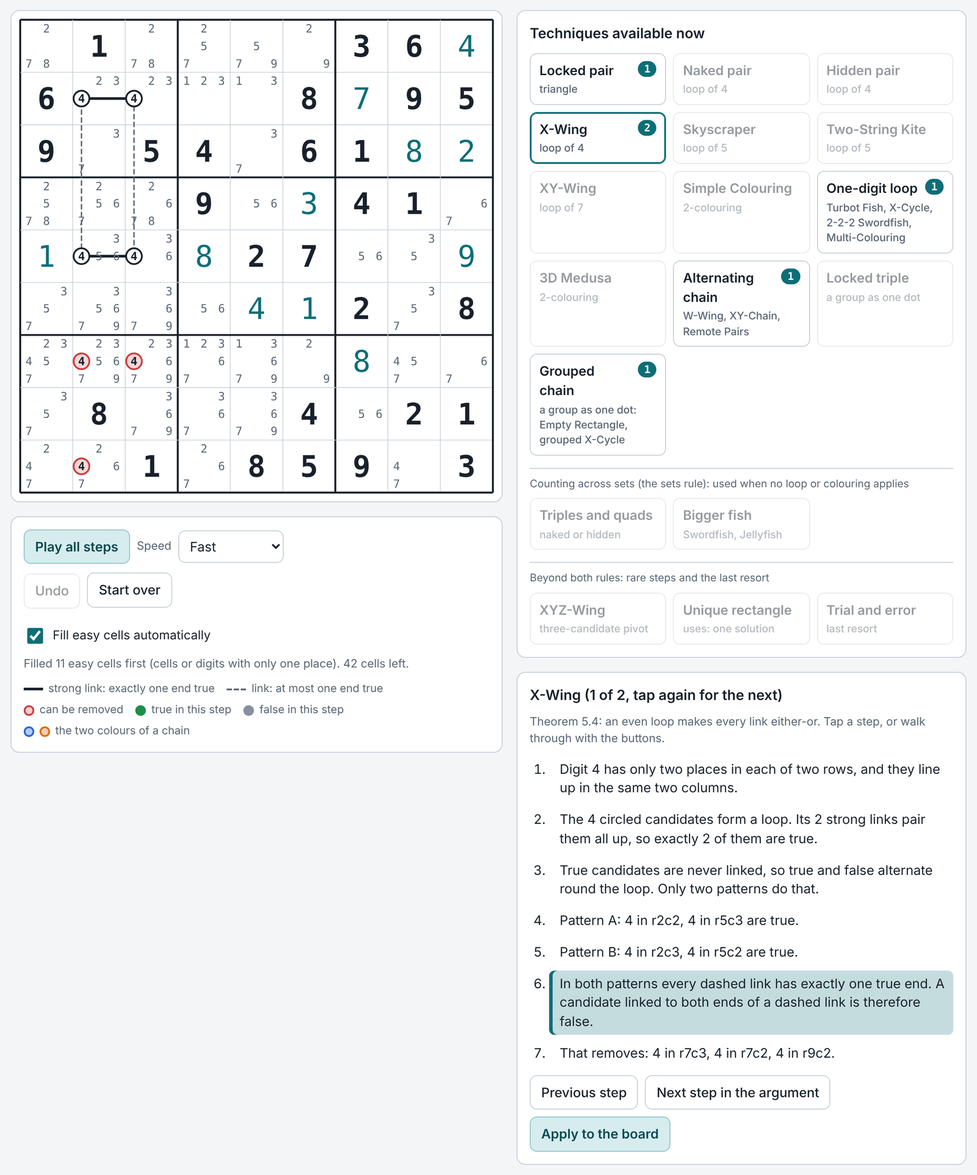
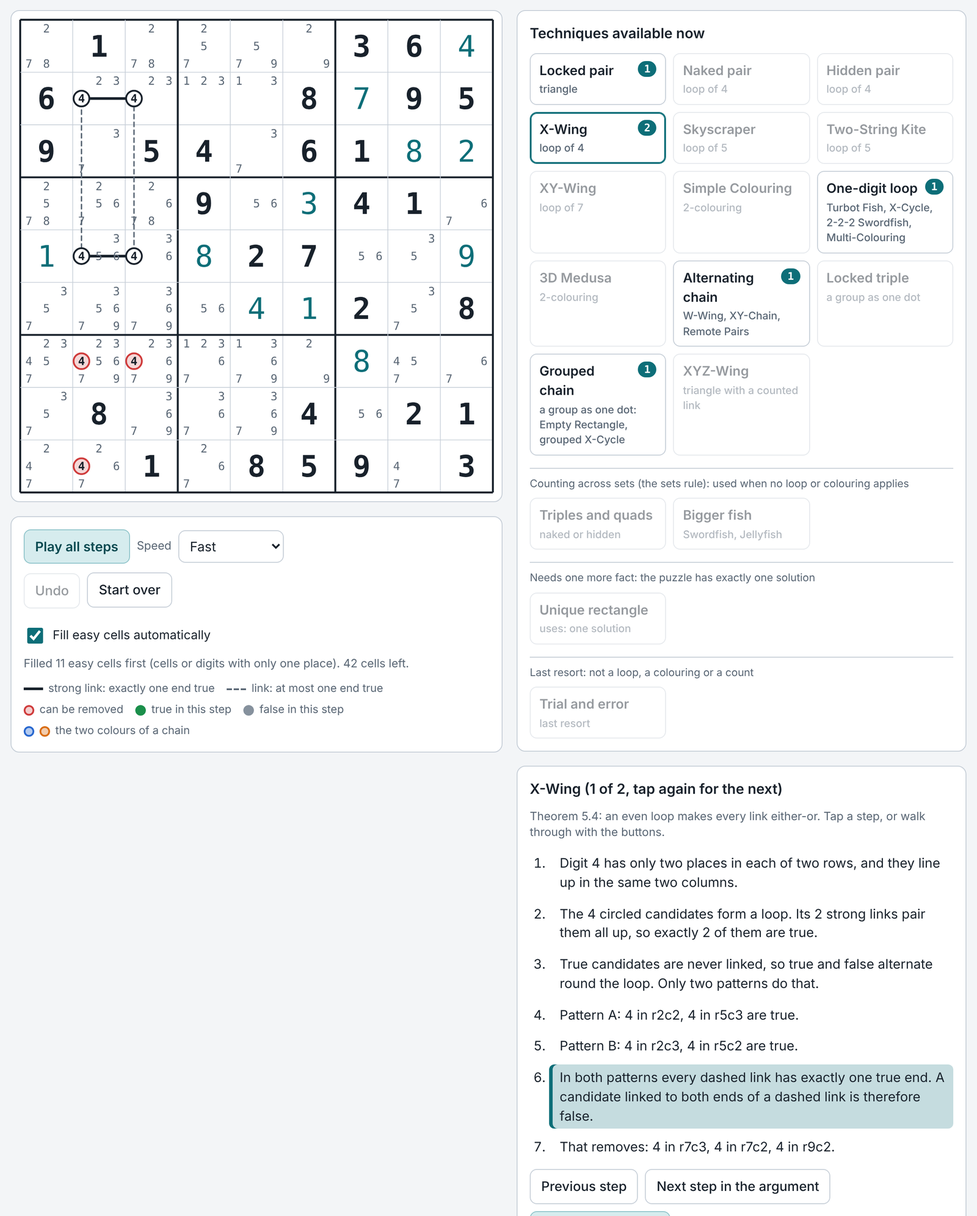
XYZ-Wing as a triangle with a counted link; unique rectangle as an even loop
- Write-up: Lemma 7.6 (the XYZ link) with its proof, and two remarks:
  triples as a colouring with nine colours, and the unique rectangle
  as an even loop with two colourings plus the one-solution fact.
  Only trial and error is left outside.
- proofs/verify_sets.py checks Lemma 7.6 on random states.
- Loop Finder: XYZ-Wing sits with the loops; unique rectangle and
  trial and error each get their own heading.

Claude-Session: https://claude.ai/code/session_0161PMRBv2Fxor83Lofabj9S

diff --git a/index.html b/index.html
@@ -677,13 +677,14 @@ label.check input { width: 18px; height: 18px; accent-color: var(--accent); }
         const z = digits(st.cand[w1] & st.cand[w2])[0], x = digits(st.cand[w1] & ~(1 << z))[0], y = digits(st.cand[w2] & ~(1 << z))[0];
         const elim = []; for (let c = 0; c < 81; c++) if (c !== p && c !== w1 && c !== w2 && has(st, c, z) && sees(c, p) && sees(c, w1) && sees(c, w2)) elim.push(cid(c, z));
         if (!elim.length) continue;
-        const res = mkResult('XYZ-Wing', 'Beyond links: the pivot has three candidates');
+        const res = mkResult('XYZ-Wing', 'Lemma 7.6 and Theorem 5.2: a triangle whose link is counted');
         for (const c of [p, w1, w2]) for (const d of digits(st.cand[c])) res.nodes.set(cid(c, d), 'loop');
         elim.forEach(e => res.nodes.set(e, 'elim')); res.elim = elim;
+        for (const c of [p, w1, w2]) res.links.push({ a: elim[0], b: cid(c, z), strong: false });
         const zs = { [cid(p, z)]: 't', [cid(w1, z)]: 't', [cid(w2, z)]: 't' };
         say(res, 'The pivot ' + cellName(p) + ' holds ' + digitList([x, y, z].sort()) + '. It sees ' + cellName(w1) + ', which holds ' + digitList([x, z].sort()) + ', and ' + cellName(w2) + ', which holds ' + digitList([y, z].sort()) + '.');
         say(res, 'If the pivot is ' + x + ', then ' + cellName(w1) + ' is ' + z + '. If it is ' + y + ', then ' + cellName(w2) + ' is ' + z + '. Otherwise the pivot itself is ' + z + '.', zs);
-        say(res, 'So one of the three green ' + z + 's is true. The pivot has three candidates, so this is one fact about three things, which no link can state.', zs);
+        say(res, 'So the three green ' + z + 's cannot all be false. That is a link counted across the three cells, and with the red ' + z + ' it closes a triangle, as in a Locked pair.', zs);
         say(res, 'A cell that sees all three cannot be ' + z + '. That removes: ' + list(elim) + '.', zs);
         out.push(res);
       }
@@ -762,12 +763,12 @@ label.check input { width: 18px; height: 18px; accent-color: var(--accent); }
       const m = st.cand[pair[0]], odd = cells.find(c => !pair.includes(c));
       if ((st.cand[odd] & m) !== m || bits(st.cand[odd]) < 3) continue;
       const ab = digits(m), elim = ab.map(d => cid(odd, d));
-      const res = mkResult('Unique rectangle', 'Beyond links: uses the fact that the puzzle has one solution');
+      const res = mkResult('Unique rectangle', 'An even loop with two colourings, plus the fact that the puzzle has one solution');
       for (const c of pair) for (const d of ab) res.nodes.set(cid(c, d), 'loop');
       elim.forEach(e => res.nodes.set(e, 'elim')); res.elim = elim;
       say(res, 'The cells ' + cellList(pair) + ' hold only ' + digitList(ab) + '. With ' + cellName(odd) + ' they form a rectangle across two rows, two columns and two boxes.');
-      say(res, 'If ' + cellName(odd) + ' were ' + ab[0] + ' or ' + ab[1] + ', the four corners would hold only ' + digitList(ab) + ', and swapping the two digits would give a second solution.');
-      say(res, 'A proper sudoku has exactly one solution, so ' + cellName(odd) + ' is neither. That removes: ' + list(elim) + '. This is not a link argument: it reasons about the puzzle as a whole.');
+      say(res, 'If ' + cellName(odd) + ' were ' + ab[0] + ' or ' + ab[1] + ', the four corners would form an even loop holding only ' + digitList(ab) + '. An even loop can be coloured two ways, and nothing outside it could tell them apart, so there would be two solutions.');
+      say(res, 'A proper sudoku has exactly one solution, so ' + cellName(odd) + ' is neither. That removes: ' + list(elim) + '. The two colourings are graph theory; the one-solution fact is an extra assumption about the puzzle.');
       out.push(res);
     }
     return out;
@@ -828,12 +829,12 @@ label.check input { width: 18px; height: 18px; accent-color: var(--accent); }
     { key: 'chain', name: 'Alternating chain', loop: 'W-Wing, XY-Chain, Remote Pairs', find: st => findChains(st, false, 6, 1), blurb: 'Any odd loop with alternating strong links.' },
     { key: 'group', name: 'Locked triple', loop: 'a group as one dot', find: findLockedGroup, blurb: 'A digit confined to three cells that share a second line or box.' },
     { key: 'gchain', name: 'Grouped chain', loop: 'a group as one dot: Empty Rectangle, grouped X-Cycle', find: findGroupedChains, blurb: 'An odd loop of one digit in which a dot may be a group of cells.'},
+    { key: 'xyz', name: 'XYZ-Wing', loop: 'triangle with a counted link', find: findXYZWing, blurb: 'A pivot with three candidates and two wings.' },
     /* Beyond links. These are tried only after every loop and colouring above has failed. */
     { key: 'subset', name: 'Triples and quads', loop: 'naked or hidden', find: findSubsets, blurb: 'Three or four cells that must share three or four digits.', beyond: true, section: 'count' },
     { key: 'fish', name: 'Bigger fish', loop: 'Swordfish, Jellyfish', find: findFish, blurb: 'One digit: three or four rows that fit only three or four columns.', beyond: true, section: 'count' },
-    { key: 'xyz', name: 'XYZ-Wing', loop: 'three-candidate pivot', find: findXYZWing, blurb: 'A pivot with three candidates and two wings.', beyond: true, section: 'other' },
-    { key: 'ur', name: 'Unique rectangle', loop: 'uses: one solution', find: findUniqueRectangle, blurb: 'Four corners that would allow two solutions.', beyond: true, section: 'other' },
-    { key: 'guess', name: 'Trial and error', loop: 'last resort', find: findGuess, blurb: 'Suppose a candidate is true and follow the easy cells to a contradiction.', beyond: true, section: 'other', lastResort: true }
+    { key: 'ur', name: 'Unique rectangle', loop: 'uses: one solution', find: findUniqueRectangle, blurb: 'Four corners that would allow two solutions.', beyond: true, section: 'unique' },
+    { key: 'guess', name: 'Trial and error', loop: 'last resort', find: findGuess, blurb: 'Suppose a candidate is true and follow the easy cells to a contradiction.', beyond: true, section: 'last', lastResort: true }
   ];
 
   /* ---------- random puzzles ---------- */
@@ -912,11 +913,11 @@ label.check input { width: 18px; height: 18px; accent-color: var(--accent); }
     { name: 'Grouped chain', puzzle: '..32.....7..9.....82...7...9...5..4....4.6..9..2.8.37.6.....1...387...2...7..5...', tech: null },
     /* Rare techniques, shown as soon as the puzzle loads. */
     { name: 'Swordfish', puzzle: '......6......9...2.1..248.3624.19........8.1.18...5....5.7............76..3...9..', tech: 'fish' },
-    { name: 'Beyond links: XYZ-Wing', puzzle: '7........14..5.....351.7........32.88........3.....51..2..957..4.18....2....2.4.9', tech: 'xyz' },
-    { name: 'Beyond links: unique rectangle', puzzle: '4....8............7..53.........15.6.....2..9...95..3....1...231.5..9.4..42.6..9.', tech: 'ur' },
+    { name: 'XYZ-Wing', puzzle: '7........14..5.....351.7........32.88........3.....51..2..957..4.18....2....2.4.9', tech: 'xyz' },
+    { name: 'Unique rectangle', puzzle: '4....8............7..53.........15.6.....2..9...95..3....1...231.5..9.4..42.6..9.', tech: 'ur' },
     /* Puzzles that links alone cannot finish. Each starts with loops and then needs the named step. */
     { name: 'Naked triple', puzzle: '............4...97.973.68...548...696....238..8.....1.42..19..............6.5....', tech: null },
-    { name: 'Beyond links: trial and error', puzzle: '...4......3.86......23..1.7.78..13..35.....2.1.9....8.......63....5....8....839..', tech: null }
+    { name: 'Trial and error', puzzle: '...4......3.86......23..1.7.78..13..35.....2.1.9....8.......63....5....8....839..', tech: null }
   ];
   var $ = function (id) { return document.getElementById(id); };
   var st = null, original = '', solution = null, history = [], avail = {}, pick = {};
@@ -1033,7 +1034,7 @@ label.check input { width: 18px; height: 18px; accent-color: var(--accent); }
   function scan() { avail = {}; var any = false; E.TECHNIQUES.forEach(function (t) { avail[t.key] = E.solved(st) || (t.lastResort && any) ? [] : t.find(st); if (avail[t.key].length) any = true; }); }
   function drawTechs() {
     var h = '';
-    var section = '', heads = { count: 'Counting across sets (the sets rule): used when no loop or colouring applies', other: 'Beyond both rules: rare steps and the last resort' };
+    var section = '', heads = { count: 'Counting across sets (the sets rule): used when no loop or colouring applies', unique: 'Needs one more fact: the puzzle has exactly one solution', last: 'Last resort: not a loop, a colouring or a count' };
     E.TECHNIQUES.forEach(function (t) {
       if (t.easy && autoFill) return;
       if (t.section && t.section !== section) { section = t.section; h += '<p class="beyond">' + heads[section] + '</p>'; }

diff --git a/src/engine.js b/src/engine.js
@@ -489,13 +489,14 @@
         const z = digits(st.cand[w1] & st.cand[w2])[0], x = digits(st.cand[w1] & ~(1 << z))[0], y = digits(st.cand[w2] & ~(1 << z))[0];
         const elim = []; for (let c = 0; c < 81; c++) if (c !== p && c !== w1 && c !== w2 && has(st, c, z) && sees(c, p) && sees(c, w1) && sees(c, w2)) elim.push(cid(c, z));
         if (!elim.length) continue;
-        const res = mkResult('XYZ-Wing', 'Beyond links: the pivot has three candidates');
+        const res = mkResult('XYZ-Wing', 'Lemma 7.6 and Theorem 5.2: a triangle whose link is counted');
         for (const c of [p, w1, w2]) for (const d of digits(st.cand[c])) res.nodes.set(cid(c, d), 'loop');
         elim.forEach(e => res.nodes.set(e, 'elim')); res.elim = elim;
+        for (const c of [p, w1, w2]) res.links.push({ a: elim[0], b: cid(c, z), strong: false });
         const zs = { [cid(p, z)]: 't', [cid(w1, z)]: 't', [cid(w2, z)]: 't' };
         say(res, 'The pivot ' + cellName(p) + ' holds ' + digitList([x, y, z].sort()) + '. It sees ' + cellName(w1) + ', which holds ' + digitList([x, z].sort()) + ', and ' + cellName(w2) + ', which holds ' + digitList([y, z].sort()) + '.');
         say(res, 'If the pivot is ' + x + ', then ' + cellName(w1) + ' is ' + z + '. If it is ' + y + ', then ' + cellName(w2) + ' is ' + z + '. Otherwise the pivot itself is ' + z + '.', zs);
-        say(res, 'So one of the three green ' + z + 's is true. The pivot has three candidates, so this is one fact about three things, which no link can state.', zs);
+        say(res, 'So the three green ' + z + 's cannot all be false. That is a link counted across the three cells, and with the red ' + z + ' it closes a triangle, as in a Locked pair.', zs);
         say(res, 'A cell that sees all three cannot be ' + z + '. That removes: ' + list(elim) + '.', zs);
         out.push(res);
       }
@@ -574,12 +575,12 @@
       const m = st.cand[pair[0]], odd = cells.find(c => !pair.includes(c));
       if ((st.cand[odd] & m) !== m || bits(st.cand[odd]) < 3) continue;
       const ab = digits(m), elim = ab.map(d => cid(odd, d));
-      const res = mkResult('Unique rectangle', 'Beyond links: uses the fact that the puzzle has one solution');
+      const res = mkResult('Unique rectangle', 'An even loop with two colourings, plus the fact that the puzzle has one solution');
       for (const c of pair) for (const d of ab) res.nodes.set(cid(c, d), 'loop');
       elim.forEach(e => res.nodes.set(e, 'elim')); res.elim = elim;
       say(res, 'The cells ' + cellList(pair) + ' hold only ' + digitList(ab) + '. With ' + cellName(odd) + ' they form a rectangle across two rows, two columns and two boxes.');
-      say(res, 'If ' + cellName(odd) + ' were ' + ab[0] + ' or ' + ab[1] + ', the four corners would hold only ' + digitList(ab) + ', and swapping the two digits would give a second solution.');
-      say(res, 'A proper sudoku has exactly one solution, so ' + cellName(odd) + ' is neither. That removes: ' + list(elim) + '. This is not a link argument: it reasons about the puzzle as a whole.');
+      say(res, 'If ' + cellName(odd) + ' were ' + ab[0] + ' or ' + ab[1] + ', the four corners would form an even loop holding only ' + digitList(ab) + '. An even loop can be coloured two ways, and nothing outside it could tell them apart, so there would be two solutions.');
+      say(res, 'A proper sudoku has exactly one solution, so ' + cellName(odd) + ' is neither. That removes: ' + list(elim) + '. The two colourings are graph theory; the one-solution fact is an extra assumption about the puzzle.');
       out.push(res);
     }
     return out;
@@ -640,12 +641,12 @@
     { key: 'chain', name: 'Alternating chain', loop: 'W-Wing, XY-Chain, Remote Pairs', find: st => findChains(st, false, 6, 1), blurb: 'Any odd loop with alternating strong links.' },
     { key: 'group', name: 'Locked triple', loop: 'a group as one dot', find: findLockedGroup, blurb: 'A digit confined to three cells that share a second line or box.' },
     { key: 'gchain', name: 'Grouped chain', loop: 'a group as one dot: Empty Rectangle, grouped X-Cycle', find: findGroupedChains, blurb: 'An odd loop of one digit in which a dot may be a group of cells.'},
+    { key: 'xyz', name: 'XYZ-Wing', loop: 'triangle with a counted link', find: findXYZWing, blurb: 'A pivot with three candidates and two wings.' },
     /* Beyond links. These are tried only after every loop and colouring above has failed. */
     { key: 'subset', name: 'Triples and quads', loop: 'naked or hidden', find: findSubsets, blurb: 'Three or four cells that must share three or four digits.', beyond: true, section: 'count' },
     { key: 'fish', name: 'Bigger fish', loop: 'Swordfish, Jellyfish', find: findFish, blurb: 'One digit: three or four rows that fit only three or four columns.', beyond: true, section: 'count' },
-    { key: 'xyz', name: 'XYZ-Wing', loop: 'three-candidate pivot', find: findXYZWing, blurb: 'A pivot with three candidates and two wings.', beyond: true, section: 'other' },
-    { key: 'ur', name: 'Unique rectangle', loop: 'uses: one solution', find: findUniqueRectangle, blurb: 'Four corners that would allow two solutions.', beyond: true, section: 'other' },
-    { key: 'guess', name: 'Trial and error', loop: 'last resort', find: findGuess, blurb: 'Suppose a candidate is true and follow the easy cells to a contradiction.', beyond: true, section: 'other', lastResort: true }
+    { key: 'ur', name: 'Unique rectangle', loop: 'uses: one solution', find: findUniqueRectangle, blurb: 'Four corners that would allow two solutions.', beyond: true, section: 'unique' },
+    { key: 'guess', name: 'Trial and error', loop: 'last resort', find: findGuess, blurb: 'Suppose a candidate is true and follow the easy cells to a contradiction.', beyond: true, section: 'last', lastResort: true }
   ];
 
   /* ---------- random puzzles ---------- */

diff --git a/writeup/index.html b/writeup/index.html
@@ -214,8 +214,15 @@ code { font-size: 0.92em; }
 </tbody>
 </table></div>
 <p>With k = 2 these are the naked pair, hidden pair and X-Wing of Theorem 5.4. So the 4-cycle with two strong links is the smallest case of the sets rule, and the sets rule is where the even loop leads when a set has more than two candidates left. The naked triple of Proposition 7.3 is the case k = 3.</p>
-<p>Both extensions were checked by brute force on about 1,200 random states that contain a known solution: 1.2 million linked pairs of group dots against Lemma 7.4, and about 18,800 instances of the sets rule with k = 2, 3 and 4. There were no failures. The script is <code>proofs/verify_sets.py</code>.</p>
-<p><strong>What is still outside.</strong> XYZ-Wing needs a dot larger than a group: a set of cells with one candidate too many. It probably fits the same loop rule, but that is not proved here. A <em>unique rectangle</em> is not about candidates at all: it uses the fact that the puzzle has one solution. And <em>trial and error</em> reaches its contradiction through a branching web of consequences, not a loop or a count.</p>
+<p><strong>3. A link that has to be counted.</strong> Theorem 5.2 never needed a strong link to mean "exactly one". Its proof only used one direction: if this end is false, the other is true. So a link that says "at least one of these is true" serves just as well, wherever it comes from.</p>
+<p><strong>Lemma 7.6 (the XYZ link).</strong> Let a cell p hold x, y and z. Let it see a cell holding x and z, and a cell holding y and z. Then at least one of the three z's in those cells is true.</p>
+<p><em>Why.</em> The cell p is x, y or z. If it is x, the cell holding x and z sees it and must be z. If it is y, the cell holding y and z must be z. Otherwise p itself is z. ∎</p>
+<p>So take the z in p and the z in the first wing as one dot, and the z in the second wing as another. They cannot both be false. A candidate z that sees all three cells is linked to both dots. Suppose it is true: both dots are false, which the lemma forbids. That is the <strong>XYZ-Wing</strong>, and its shape is a triangle, like the Locked pair.</p>
+<p><strong>4. Two remarks.</strong></p>
+<p><em>Triples as a colouring.</em> A solved grid colours the 81 cells with nine colours so that cells which see each other differ [2]. A naked triple is three cells that all see each other and share a list of three colours, so they use up all three. The sets rule says the same thing by counting.</p>
+<p><em>The unique rectangle.</em> Four cells in two rows, two columns and two boxes, each holding only a and b, form an even loop, and an even loop has exactly two colourings (Corollary 2.2). Nothing outside the four cells can tell the two apart, so both would be solutions. A proper puzzle has one solution, so that pattern can never appear, and any candidate that would complete it is false. The loop and its two colourings are graph theory. The last step is not: it uses a fact about the puzzle that is not one of the 324 constraint sets.</p>
+<p>All three were checked by brute force on about 1,100 random states that contain a known solution: 1.1 million linked pairs of group dots against Lemma 7.4, about 17,500 instances of the sets rule with k = 2, 3 and 4, and about 1,600 XYZ configurations against Lemma 7.6. There were no failures. The script is <code>proofs/verify_sets.py</code>.</p>
+<p><strong>What is still outside.</strong> <em>Trial and error</em> reaches its contradiction through a branching web of consequences, not a loop, a colouring or a count. Larger families such as almost-locked sets and finned fish are not examined here.</p>
 <h2 id="8-has-this-been-done-before">8. Has this been done before?</h2>
 <p>Yes, in pieces. The strategies are well known, and so is the loop view. What I have not found written down is one counting rule that proves all of them.</p>
 <ul><li><p><strong>Sudoku as graph colouring.</strong> Herzberg and Murty [2] colour the 81 cells with nine digits. That graph describes what a solution is. It is not the link graph used here.</p></li><li><p><strong>Bivalue and bilocation graphs.</strong> Eppstein [3] builds graphs from the same strong links and reads solving rules off their cycles. His rules use edge labels, not two colours or parity. This is the closest academic precedent.</p></li><li><p><strong>Colouring.</strong> HoDoKu [7] describes Simple Colours, with the names Color Trap and Color Wrap, and Multi Colours, whose two rules are Bridge and Double bridge here. SudokuWiki [8] describes 3D Medusa.</p></li><li><p><strong>Loops.</strong> SudokuWiki [8] notes that a loop with one discontinuity has an odd number of nodes, and states the rules proved here as Theorems 5.2 and 5.3. Sudopedia [9] has the rule that is Theorem 5.4. Barker [10] observes that an odd loop of strong links cannot occur, and describes the guardians of the Broken Wing.</p></li><li><p><strong>Background maths.</strong> Theorem 2.1 is König&#39;s [1]. The odd-cycle bound is Padberg&#39;s [4]. The 2-SAT method is due to Aspvall, Plass and Tarjan [6]. Berthier [11] treats chains in formal logic.</p></li></ul>

diff --git a/src/index.src.html b/src/index.src.html
@@ -210,11 +210,11 @@ label.check input { width: 18px; height: 18px; accent-color: var(--accent); }
     { name: 'Grouped chain', puzzle: '..32.....7..9.....82...7...9...5..4....4.6..9..2.8.37.6.....1...387...2...7..5...', tech: null },
     /* Rare techniques, shown as soon as the puzzle loads. */
     { name: 'Swordfish', puzzle: '......6......9...2.1..248.3624.19........8.1.18...5....5.7............76..3...9..', tech: 'fish' },
-    { name: 'Beyond links: XYZ-Wing', puzzle: '7........14..5.....351.7........32.88........3.....51..2..957..4.18....2....2.4.9', tech: 'xyz' },
-    { name: 'Beyond links: unique rectangle', puzzle: '4....8............7..53.........15.6.....2..9...95..3....1...231.5..9.4..42.6..9.', tech: 'ur' },
+    { name: 'XYZ-Wing', puzzle: '7........14..5.....351.7........32.88........3.....51..2..957..4.18....2....2.4.9', tech: 'xyz' },
+    { name: 'Unique rectangle', puzzle: '4....8............7..53.........15.6.....2..9...95..3....1...231.5..9.4..42.6..9.', tech: 'ur' },
     /* Puzzles that links alone cannot finish. Each starts with loops and then needs the named step. */
     { name: 'Naked triple', puzzle: '............4...97.973.68...548...696....238..8.....1.42..19..............6.5....', tech: null },
-    { name: 'Beyond links: trial and error', puzzle: '...4......3.86......23..1.7.78..13..35.....2.1.9....8.......63....5....8....839..', tech: null }
+    { name: 'Trial and error', puzzle: '...4......3.86......23..1.7.78..13..35.....2.1.9....8.......63....5....8....839..', tech: null }
   ];
   var $ = function (id) { return document.getElementById(id); };
   var st = null, original = '', solution = null, history = [], avail = {}, pick = {};
@@ -331,7 +331,7 @@ label.check input { width: 18px; height: 18px; accent-color: var(--accent); }
   function scan() { avail = {}; var any = false; E.TECHNIQUES.forEach(function (t) { avail[t.key] = E.solved(st) || (t.lastResort && any) ? [] : t.find(st); if (avail[t.key].length) any = true; }); }
   function drawTechs() {
     var h = '';
-    var section = '', heads = { count: 'Counting across sets (the sets rule): used when no loop or colouring applies', other: 'Beyond both rules: rare steps and the last resort' };
+    var section = '', heads = { count: 'Counting across sets (the sets rule): used when no loop or colouring applies', unique: 'Needs one more fact: the puzzle has exactly one solution', last: 'Last resort: not a loop, a colouring or a count' };
     E.TECHNIQUES.forEach(function (t) {
       if (t.easy && autoFill) return;
       if (t.section && t.section !== section) { section = t.section; h += '<p class="beyond">' + heads[section] + '</p>'; }

diff --git a/test/smoke.js b/test/smoke.js
@@ -177,7 +177,7 @@ const loadSample = i => { sel.value = String(i); sel.dispatchEvent(new dom.windo
   log.push('random: 6 different proper puzzles, each finished by play; Start over keeps the puzzle');
   // 6i. the three "Beyond links" examples sit at the bottom of the list, and play finishes each using the named step
   document.documentElement.setAttribute('data-instant', '1');
-  const lastThree = ['Locked triple', 'Naked triple', 'Beyond links: trial and error'].map(nm => [...sel.options].find(o => o.textContent === nm));
+  const lastThree = ['Locked triple', 'Naked triple', 'Trial and error'].map(nm => [...sel.options].find(o => o.textContent === nm));
   if (lastThree.some(o => !o)) throw new Error('an expected example is missing from the list');
   const wanted = [['locked triple', 'Locked triple'], ['naked triple', 'Naked triple'], ['trial and error', 'Trial and error']];
   for (let n = 0; n < 3; n++) {
@@ -203,7 +203,7 @@ const loadSample = i => { sel.value = String(i); sel.dispatchEvent(new dom.windo
   for (let g = 0; g < 80 && !document.querySelector('#techs button[data-key=group]:not([disabled])'); g++) { click(document.querySelector('#techs button[data-key]:not([disabled])')); click($('apply')); }
   click(document.querySelector('#techs button[data-key=group]'));
   if ($('grid').querySelectorAll('rect.group').length !== 1) throw new Error('the locked triple is not drawn as one outlined group');
-  if (document.querySelectorAll('#techs .beyond').length !== 2) throw new Error('expected two dividers: counting, and beyond both');
+  if (document.querySelectorAll('#techs .beyond').length !== 3) throw new Error('expected three dividers: counting, one-solution, last resort');
   // 6j. the easy-cell switch and "Random easy sudoku"
   const auto = $('autofill'), easyBtn = () => document.querySelector('#techs button[data-key=single]');
   loadSample(4);

diff --git a/test/test.js b/test/test.js
@@ -82,7 +82,7 @@ console.log(JSON.stringify(firstAfterSingles, null, 1));
       let res = null, tech = null;
       for (const t of E.TECHNIQUES) { const rs = t.find(st); for (const r of rs) check(st, sol, r, t.key + ' on ' + puzzle); if (rs.length && !res) { res = rs[0]; tech = t; } if (res && t === tech) break; }
       if (!res) throw new Error('nothing applies on ' + puzzle);
-      if (tech.beyond || tech.key === 'group' || tech.key === 'gchain') { linkOnlyStuck = true; seen.add(res.tech); }
+      if (tech.beyond || tech.key === 'group' || tech.key === 'gchain' || tech.key === 'xyz') { linkOnlyStuck = true; seen.add(res.tech); }
       if (tech.lastResort && E.TECHNIQUES.some(t => !t.lastResort && t.find(st).length)) throw new Error('a guess was used while a pattern was available');
       E.apply(st, res); E.fillSingles(st);
     }

diff --git a/proofs/verify_sets.py b/proofs/verify_sets.py
@@ -4,7 +4,9 @@ A. Lemma 7.4: group dots obey the two link rules (so the Cycle Lemma and Theorem
 B. Theorem 7.5, the sets rule: if k pairwise disjoint constraint sets are covered by k other
    constraint sets, every candidate of the covering sets outside the covered ones is false.
 
-Both are checked on random states that contain a known solution. Run: python3 verify_sets.py
+C. Lemma 7.6: in an XYZ-Wing one of the three z's is true.
+
+All are checked on random states that contain a known solution. Run: python3 verify_sets.py
 """
 import itertools, random, time
 
@@ -125,13 +127,36 @@ def check_families(truth, P, live):
         family(rows, cols); family(cols, rows)
     return n
 
-t0, groups, rule, fam, states = time.time(), 0, 0, 0, 0
+def check_xyz(truth, P, live):
+    """Lemma 7.6: a pivot cell holding x, y, z that sees a cell holding x, z and a cell holding y, z.
+    One of the three z's is true, so a z that sees all three cells is false."""
+    n = 0
+    cell = {}
+    for (r, c, d) in P: cell.setdefault((r, c), set()).add(d)
+    sees = lambda a, b: a != b and (a[0] == b[0] or a[1] == b[1] or (a[0] // 3 == b[0] // 3 and a[1] // 3 == b[1] // 3))
+    for p, ds in cell.items():
+        if len(ds) != 3: continue
+        wings = [w for w, ws in cell.items() if len(ws) == 2 and ws < ds and sees(p, w)]
+        for w1, w2 in itertools.combinations(wings, 2):
+            if cell[w1] == cell[w2]: continue
+            z = next(iter(cell[w1] & cell[w2]))
+            three = [(p[0], p[1], z), (w1[0], w1[1], z), (w2[0], w2[1], z)]
+            assert any(t in truth for t in three), 'no z is true among pivot and wings'
+            for v, vs in cell.items():
+                if v not in (p, w1, w2) and z in vs and sees(v, p) and sees(v, w1) and sees(v, w2):
+                    assert (v[0], v[1], z) not in truth, 'XYZ-Wing removed a true candidate'
+            n += 1
+    return n
+
+t0, groups, rule, fam, xyz, states = time.time(), 0, 0, 0, 0, 0
 while time.time() - t0 < 40:
     truth, P, live = random_state()
     groups += check_groups(truth, P, live)
     rule += check_sets_rule(truth, P, live)
     fam += check_families(truth, P, live)
+    xyz += check_xyz(truth, P, live)
     states += 1
 print('states:', states)
 print('group dots (Lemma 7.4): %d linked pairs of dots checked against the two link rules, 0 failures' % groups)
 print('sets rule (Theorem 7.5): %d random base/cover instances and %d subset and fish instances, k = 2, 3, 4, each removing at least one candidate, 0 failures' % (rule, fam))
+print('XYZ-Wing (Lemma 7.6): %d pivot-and-wings configurations checked, 0 failures' % xyz)

diff --git a/writeup/README.md b/writeup/README.md
@@ -491,9 +491,23 @@ What the sets rule covers:
 
 With k = 2 these are the naked pair, hidden pair and X-Wing of Theorem 5.4. So the 4-cycle with two strong links is the smallest case of the sets rule, and the sets rule is where the even loop leads when a set has more than two candidates left. The naked triple of Proposition 7.3 is the case k = 3.
 
-Both extensions were checked by brute force on about 1,200 random states that contain a known solution: 1.2 million linked pairs of group dots against Lemma 7.4, and about 18,800 instances of the sets rule with k = 2, 3 and 4. There were no failures. The script is `proofs/verify_sets.py`.
+**3. A link that has to be counted.** Theorem 5.2 never needed a strong link to mean "exactly one". Its proof only used one direction: if this end is false, the other is true. So a link that says "at least one of these is true" serves just as well, wherever it comes from.
 
-**What is still outside.** XYZ-Wing needs a dot larger than a group: a set of cells with one candidate too many. It probably fits the same loop rule, but that is not proved here. A *unique rectangle* is not about candidates at all: it uses the fact that the puzzle has one solution. And *trial and error* reaches its contradiction through a branching web of consequences, not a loop or a count.
+**Lemma 7.6 (the XYZ link).** Let a cell p hold x, y and z. Let it see a cell holding x and z, and a cell holding y and z. Then at least one of the three z's in those cells is true.
+
+*Why.* The cell p is x, y or z. If it is x, the cell holding x and z sees it and must be z. If it is y, the cell holding y and z must be z. Otherwise p itself is z. ∎
+
+So take the z in p and the z in the first wing as one dot, and the z in the second wing as another. They cannot both be false. A candidate z that sees all three cells is linked to both dots. Suppose it is true: both dots are false, which the lemma forbids. That is the **XYZ-Wing**, and its shape is a triangle, like the Locked pair.
+
+**4. Two remarks.**
+
+*Triples as a colouring.* A solved grid colours the 81 cells with nine colours so that cells which see each other differ \[2\]. A naked triple is three cells that all see each other and share a list of three colours, so they use up all three. The sets rule says the same thing by counting.
+
+*The unique rectangle.* Four cells in two rows, two columns and two boxes, each holding only a and b, form an even loop, and an even loop has exactly two colourings (Corollary 2.2). Nothing outside the four cells can tell the two apart, so both would be solutions. A proper puzzle has one solution, so that pattern can never appear, and any candidate that would complete it is false. The loop and its two colourings are graph theory. The last step is not: it uses a fact about the puzzle that is not one of the 324 constraint sets.
+
+All three were checked by brute force on about 1,100 random states that contain a known solution: 1.1 million linked pairs of group dots against Lemma 7.4, about 17,500 instances of the sets rule with k = 2, 3 and 4, and about 1,600 XYZ configurations against Lemma 7.6. There were no failures. The script is `proofs/verify_sets.py`.
+
+**What is still outside.** *Trial and error* reaches its contradiction through a branching web of consequences, not a loop, a colouring or a count. Larger families such as almost-locked sets and finned fish are not examined here.
 
 ## 8. Has this been done before?
 

diff --git a/README.md b/README.md
@@ -82,11 +82,11 @@ A search for everything links can prove, on a smaller sample, solved nothing the
 - **Triples and quads**, naked or hidden: k cells of a unit against the k digits they hold.
 - **Bigger fish** (Swordfish, Jellyfish): one digit in k rows against k columns.
 
-**Beyond both rules.** Three steps remain outside, tried last:
+**A counted link.** In an **XYZ-Wing** one of three candidates must be true, which a short count shows. With the candidate it removes, that closes a triangle, the same shape as the Locked pair. It sits with the loops.
 
-- **XYZ-Wing**: a pivot with three candidates and two wings.
-- **Unique rectangle**: four corners that would allow two solutions. It uses the fact that a proper sudoku has one.
-- **Trial and error**, the last resort: suppose a candidate is true, fill the easy cells that follow, and reach a contradiction. It is offered only when nothing else applies.
+**One more fact.** A **unique rectangle** is an even loop that could be coloured both ways with nothing to decide between them. It adds the assumption that a proper sudoku has one solution.
+
+**Last resort.** **Trial and error**: suppose a candidate is true, fill the easy cells that follow, and reach a contradiction. It is not a loop, a colouring or a count, and it is offered only when nothing else applies.
 
 In a test on 6,000 random puzzles with all of these, 106 used a group step (locked triple or grouped chain), 34 a naked triple, 1 a unique rectangle, and 75 (1.2%) still needed a guess. Bigger fish and XYZ-Wing were never needed: they exist, but random puzzles almost never require them. With the guess every puzzle can be finished. The last entries of the example list show these steps.
 
